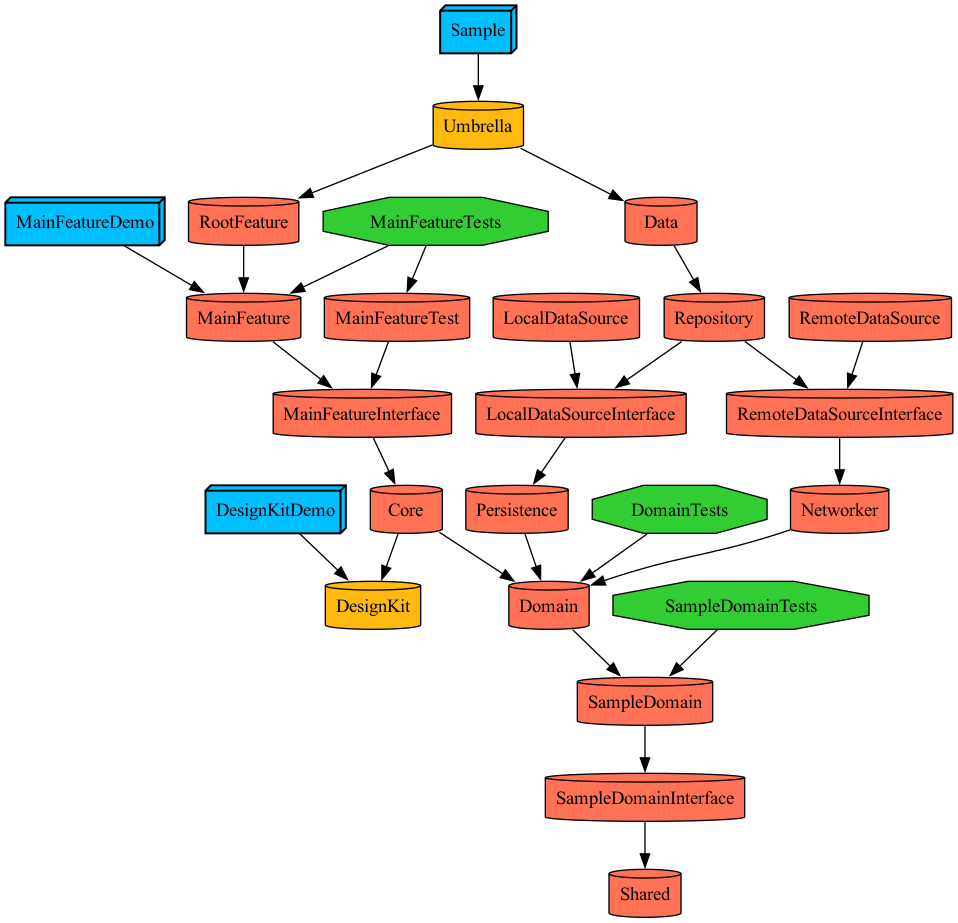
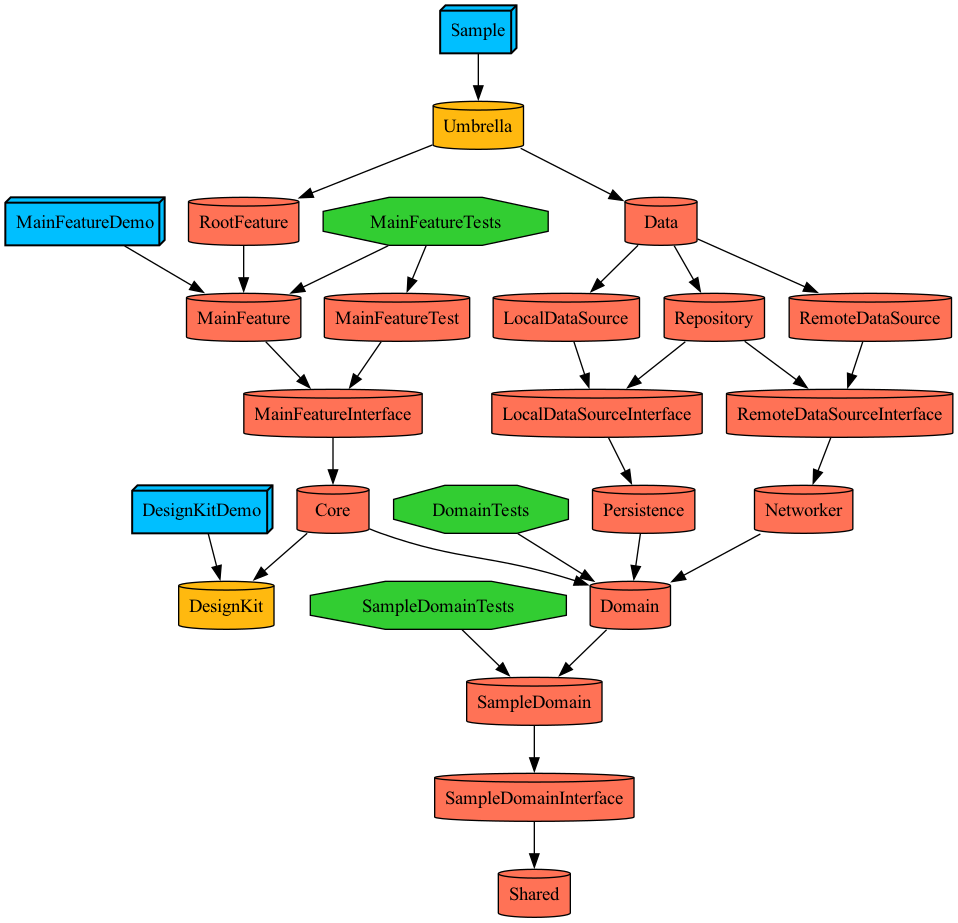
모듈 수정 (#11)

diff --git a/Sample/Tuist/ProjectDescriptionHelpers/Extension/Path+.swift b/Sample/Tuist/ProjectDescriptionHelpers/Extension/Path+.swift
@@ -16,6 +16,10 @@ public extension ProjectDescription.Path {
         return .relativeToRoot("Projects/Domains/\(path)")
     }
     
+    static func relativeToNetwork() -> Self {
+        return .relativeToRoot("Projects/Data/Networker")
+    }
+    
     static func relativeToModule(path: String) -> Self {
         return .relativeToRoot("Projects/Modules/\(path)")
     }

diff --git a/Sample/Projects/Data/Data/Project.swift b/Sample/Projects/Data/Data/Project.swift
@@ -12,6 +12,8 @@ let project = Project.configure(
     moduleType: .module(name: "Data"),
     product: .staticFramework,
     dependencies: [
-        .Module.repository
+        .Module.repository,
+        .Module.localDataSource.implement,
+        .Module.remoteDataSource.implement
     ]
 )

diff --git a/Sample/Tuist/ProjectDescriptionHelpers/Extension/Dependency+Project.swift b/Sample/Tuist/ProjectDescriptionHelpers/Extension/Dependency+Project.swift
@@ -60,7 +60,7 @@ public extension TargetDependency.Module {
     
     static let networker = dependency(
         target: "Networker",
-        path: .relativeToModule(path: "Networker")
+        path: .relativeToNetwork()
     )
 }
 
